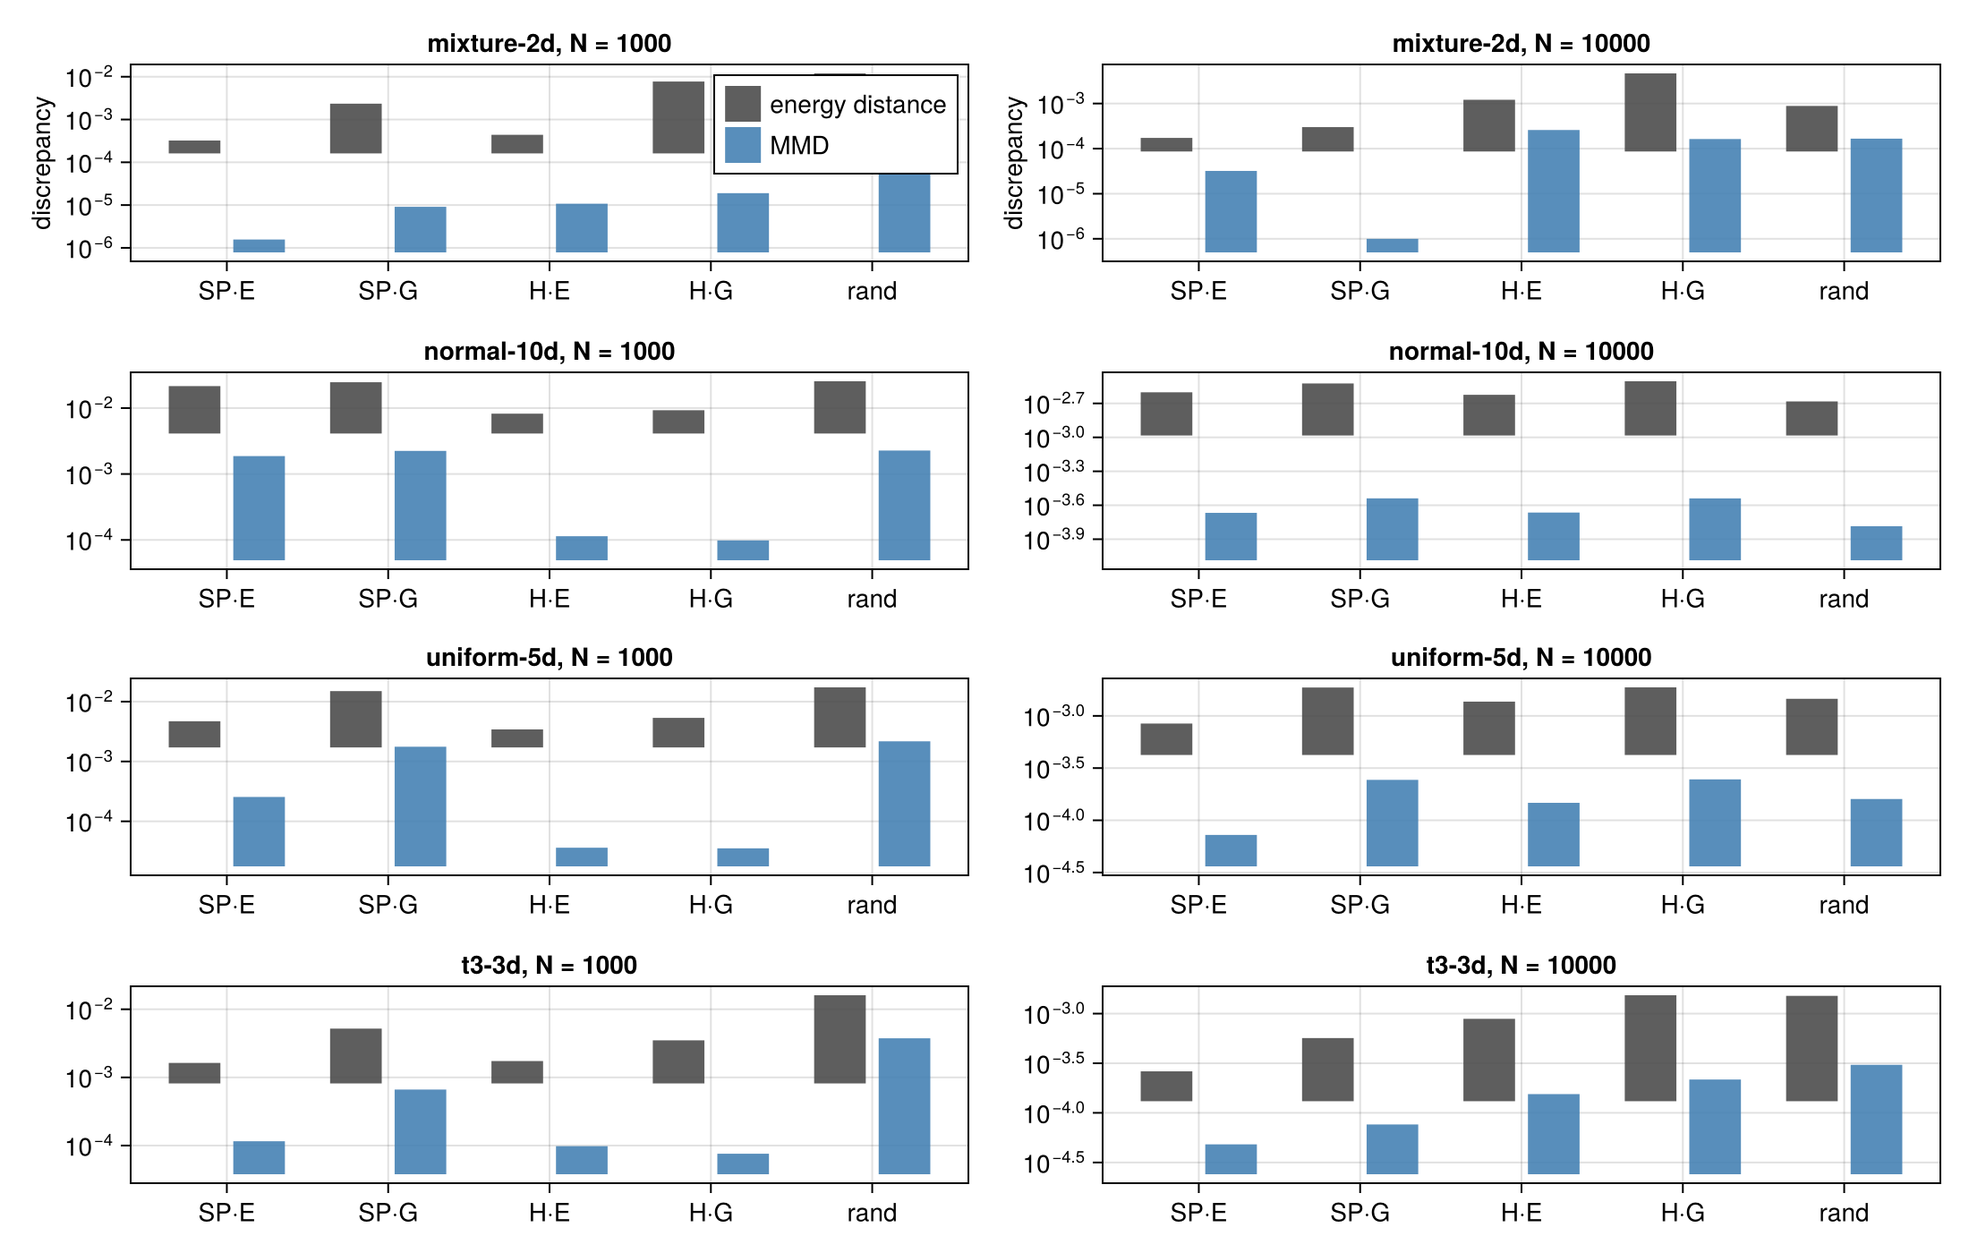
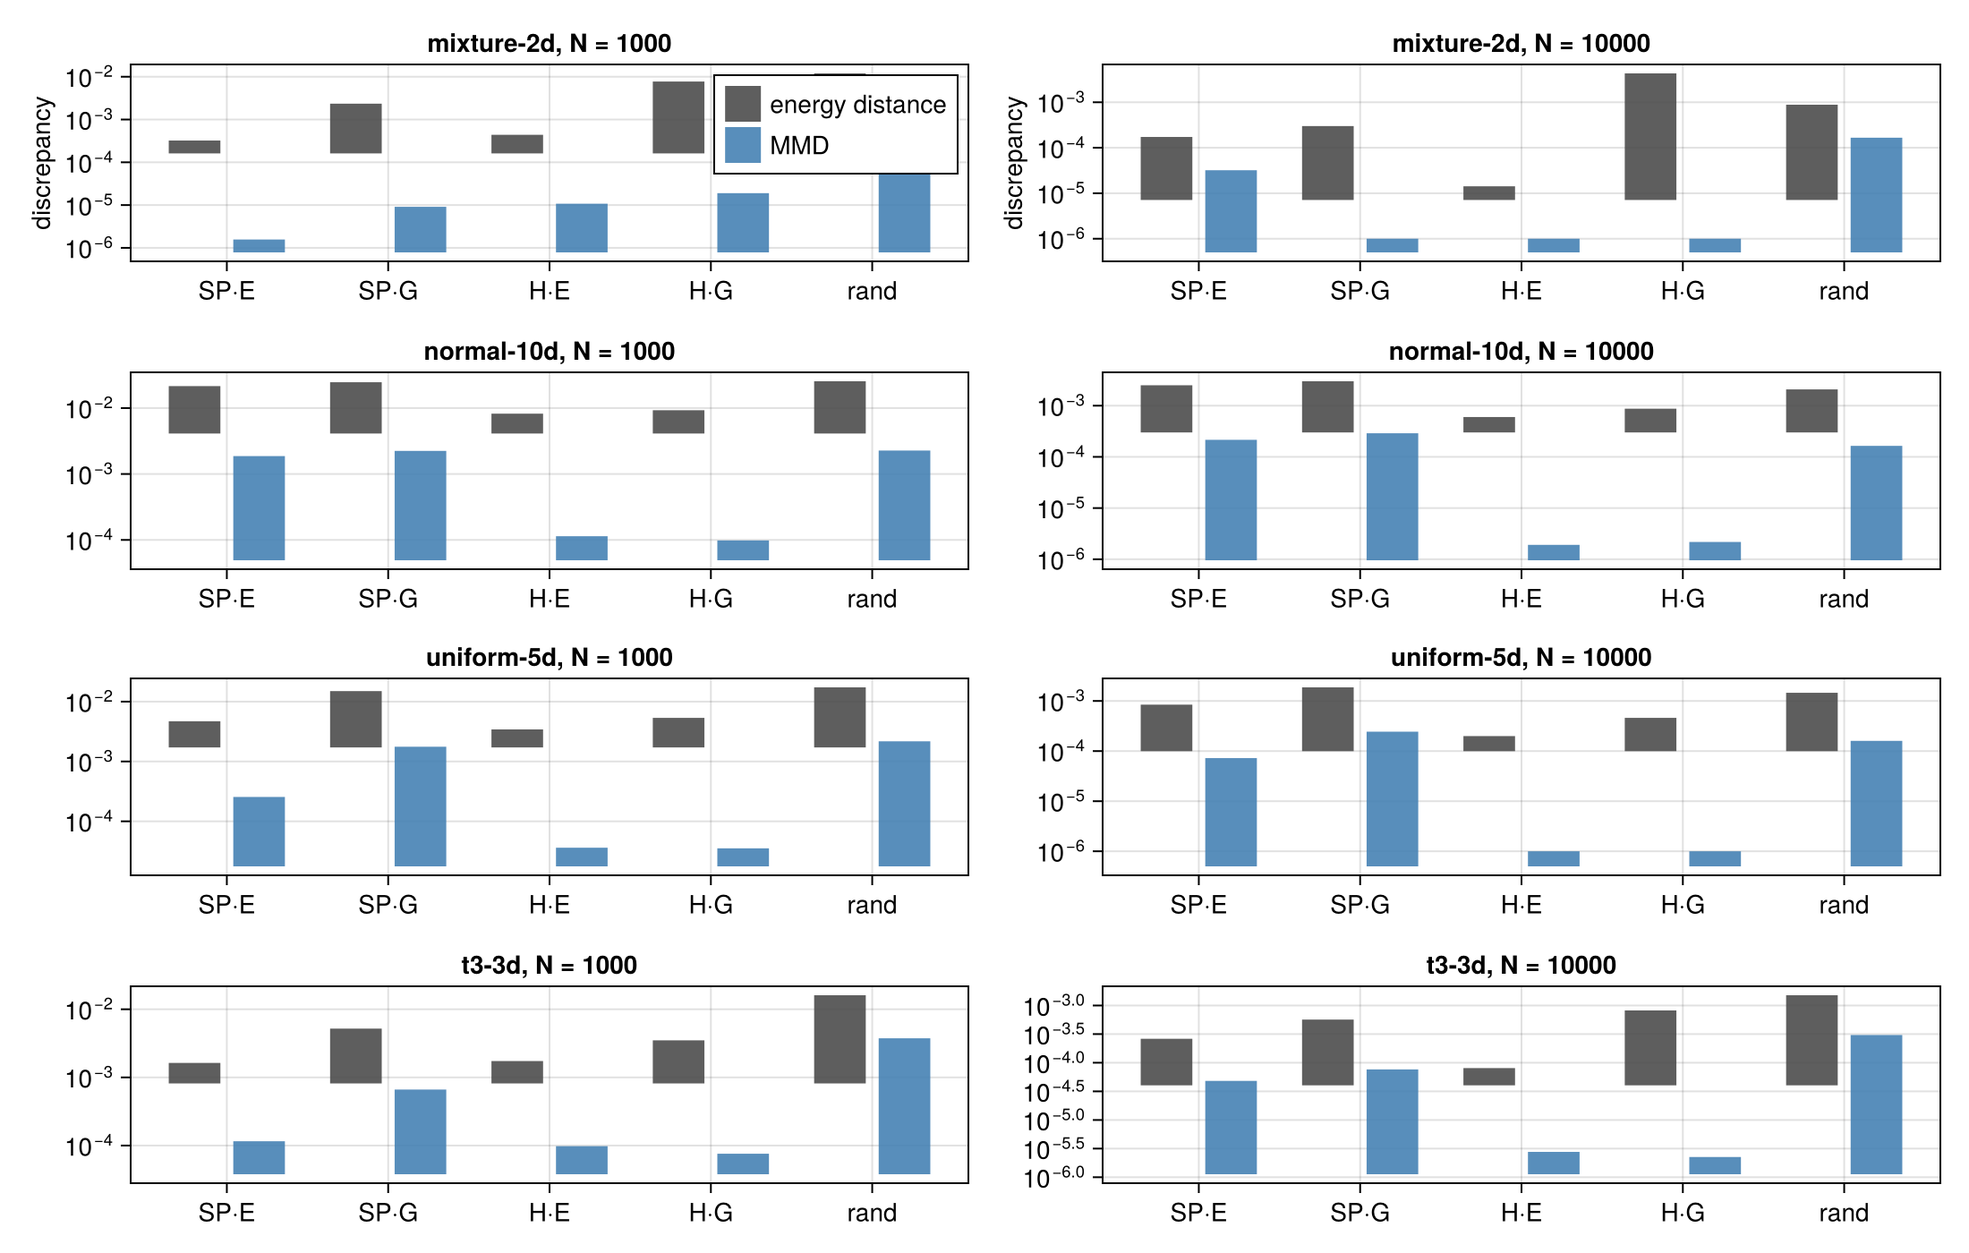
bench: Re-run with exact herding at all sizes
benchmark/run.jl no longer passes kappa to either HerdingSplitter
(matching the src/herding.jl fix), so herding uses the exact O(N^2)
data term at N = 10,000 same as at N = 1,000. Re-ran
`julia -t auto --project=benchmark benchmark/run.jl` (wall 3m4.7s) and
regenerated results.md, quality.png, and time.png (selection.png is
byte-identical since it's drawn at N = 1,000, where herding never used
kappa either way).

herding · energy now has the lowest energy distance on every dataset
at N = 10,000 (3.3x-12.2x below the next-best method), reversing the
previous run where support points · energy won most cells at that
size once herding was handicapped by the subsampled estimate.
docs/src/20-benchmarks.md Setup and "Reading the results" are rewritten
from the new numbers; the support-point Gaussian-kernel early-stop
disclosure (normal-10d/uniform-5d converge in one iteration at
N = 10,000 due to tolerance-scale, not near-stationarity) still applies
and is unchanged since that optimizer path is untouched by this wave.

diff --git a/docs/src/20-benchmarks.md b/docs/src/20-benchmarks.md
@@ -13,16 +13,17 @@ Each dataset is generated at ``N \in \{1{,}000, 10{,}000\}``. Five methods
 are compared per (dataset, ``N``): `SupportPointSplitter(EnergyKernel())`,
 `SupportPointSplitter(GaussianKernel())`, `HerdingSplitter(EnergyKernel())`,
 `HerdingSplitter(GaussianKernel())`, and a random split (mean of 5 seeds).
-At ``N = 10{,}000`` the support-point methods use `kappa = 1_000`
-(energy kernel) and a lower `max_iterations = 100` (Gaussian kernel, which
-has no stochastic mode) to keep wall time reasonable; the herding methods
-use `kappa = 2_000` at that size. On `normal-10d` and `uniform-5d` at that
-size, `support points · gaussian` converges after a single iteration
-(`result.converged == true`, 0.49-0.58 s) rather than running the full
-100-iteration cap that `mixture-2d` and `t3-3d` use there (not converged,
-43-44 s): the absolute displacement tolerance fires at the initial sample
-because the 1/n-scaled gradient is below it; a scale-aware tolerance is a
-planned follow-up — see "Reading the results" for the full explanation.
+At ``N = 10{,}000`` the support-point energy kernel uses `kappa = 1_000`
+and the Gaussian kernel uses a lower `max_iterations = 100` (it has no
+stochastic mode) to keep wall time reasonable; herding uses the exact data
+term at all sizes — there is no `kappa` for `HerdingSplitter`. On
+`normal-10d` and `uniform-5d` at ``N = 10{,}000``, `support points ·
+gaussian` still converges after a single iteration (`result.converged ==
+true`, 0.48-0.49 s) rather than running the full 100-iteration cap that
+`mixture-2d` and `t3-3d` use there (not converged, 42 s): the absolute
+displacement tolerance fires at the initial sample because the
+1/n-scaled gradient is below it; a scale-aware tolerance is a planned
+follow-up — see "Reading the results" for the full explanation.
 
 For every (dataset, method) pair the script records the energy distance and
 the Gaussian-kernel MMD (median-heuristic bandwidth, resolved once per
@@ -68,86 +69,104 @@ overlaid, showing why the methods disagree on which rows to hold out.
 
 | dataset | N | method | energy distance | MMD (Gaussian, median σ) | seconds |
 |---|---:|---|---:|---:|---:|
-| mixture-2d | 1000 | support points · energy | 0.000323 | 1.57e-6 | 0.33 |
-| mixture-2d | 1000 | support points · gaussian | 0.00235 | 9.1e-6 | 1.1 |
-| mixture-2d | 1000 | herding · energy | 0.000439 | 1.08e-5 | 0.0021 |
-| mixture-2d | 1000 | herding · gaussian | 0.00772 | 1.9e-5 | 0.018 |
+| mixture-2d | 1000 | support points · energy | 0.000323 | 1.57e-6 | 0.26 |
+| mixture-2d | 1000 | support points · gaussian | 0.00235 | 9.1e-6 | 1.0 |
+| mixture-2d | 1000 | herding · energy | 0.000439 | 1.08e-5 | 0.0015 |
+| mixture-2d | 1000 | herding · gaussian | 0.00772 | 1.9e-5 | 0.013 |
 | mixture-2d | 1000 | random | 0.012 | 0.00258 | – |
-| normal-10d | 1000 | support points · energy | 0.0215 | 0.00187 | 0.76 |
-| normal-10d | 1000 | support points · gaussian | 0.0247 | 0.00224 | 1.3 |
-| normal-10d | 1000 | herding · energy | 0.00822 | 0.000114 | 0.0027 |
-| normal-10d | 1000 | herding · gaussian | 0.00927 | 9.82e-5 | 0.031 |
+| normal-10d | 1000 | support points · energy | 0.0215 | 0.00187 | 0.71 |
+| normal-10d | 1000 | support points · gaussian | 0.0247 | 0.00224 | 1.4 |
+| normal-10d | 1000 | herding · energy | 0.00822 | 0.000114 | 0.0028 |
+| normal-10d | 1000 | herding · gaussian | 0.00927 | 9.82e-5 | 0.016 |
 | normal-10d | 1000 | random | 0.0255 | 0.00227 | – |
-| uniform-5d | 1000 | support points · energy | 0.0047 | 0.000255 | 0.56 |
+| uniform-5d | 1000 | support points · energy | 0.0047 | 0.000255 | 0.6 |
 | uniform-5d | 1000 | support points · gaussian | 0.015 | 0.00176 | 1.1 |
-| uniform-5d | 1000 | herding · energy | 0.00343 | 3.62e-5 | 0.012 |
+| uniform-5d | 1000 | herding · energy | 0.00343 | 3.62e-5 | 0.0022 |
 | uniform-5d | 1000 | herding · gaussian | 0.00535 | 3.54e-5 | 0.016 |
 | uniform-5d | 1000 | random | 0.0173 | 0.00217 | – |
-| t3-3d | 1000 | support points · energy | 0.00163 | 0.000116 | 0.43 |
+| t3-3d | 1000 | support points · energy | 0.00163 | 0.000116 | 0.44 |
 | t3-3d | 1000 | support points · gaussian | 0.0052 | 0.000663 | 1.1 |
-| t3-3d | 1000 | herding · energy | 0.00174 | 9.8e-5 | 0.0018 |
-| t3-3d | 1000 | herding · gaussian | 0.0035 | 7.58e-5 | 0.014 |
+| t3-3d | 1000 | herding · energy | 0.00174 | 9.8e-5 | 0.003 |
+| t3-3d | 1000 | herding · gaussian | 0.0035 | 7.58e-5 | 0.018 |
 | t3-3d | 1000 | random | 0.0161 | 0.00375 | – |
 | mixture-2d | 10000 | support points · energy | 0.000173 | 3.2e-5 | 3.6 |
-| mixture-2d | 10000 | support points · gaussian | 0.0003 | 7.76e-7 | 43.0 |
-| mixture-2d | 10000 | herding · energy | 0.00121 | 0.000259 | 0.18 |
-| mixture-2d | 10000 | herding · gaussian | 0.00466 | 0.000163 | 0.4 |
+| mixture-2d | 10000 | support points · gaussian | 0.0003 | 7.76e-7 | 42.0 |
+| mixture-2d | 10000 | herding · energy | 1.42e-5 | 1.87e-7 | 0.13 |
+| mixture-2d | 10000 | herding · gaussian | 0.00432 | 2.85e-7 | 0.43 |
 | mixture-2d | 10000 | random | 0.000885 | 0.000166 | – |
-| normal-10d | 10000 | support points · energy | 0.0025 | 0.000215 | 9.2 |
+| normal-10d | 10000 | support points · energy | 0.0025 | 0.000215 | 9.0 |
 | normal-10d | 10000 | support points · gaussian | 0.00299 | 0.000289 | 0.49 |
-| normal-10d | 10000 | herding · energy | 0.00238 | 0.000216 | 0.15 |
-| normal-10d | 10000 | herding · gaussian | 0.00313 | 0.000289 | 0.45 |
+| normal-10d | 10000 | herding · energy | 0.0006 | 1.91e-6 | 0.21 |
+| normal-10d | 10000 | herding · gaussian | 0.000873 | 2.17e-6 | 0.52 |
 | normal-10d | 10000 | random | 0.00208 | 0.000164 | – |
-| uniform-5d | 10000 | support points · energy | 0.000844 | 7.24e-5 | 6.0 |
-| uniform-5d | 10000 | support points · gaussian | 0.00187 | 0.000244 | 0.58 |
-| uniform-5d | 10000 | herding · energy | 0.00137 | 0.000147 | 0.14 |
-| uniform-5d | 10000 | herding · gaussian | 0.00188 | 0.000246 | 0.36 |
+| uniform-5d | 10000 | support points · energy | 0.000844 | 7.24e-5 | 6.2 |
+| uniform-5d | 10000 | support points · gaussian | 0.00187 | 0.000244 | 0.48 |
+| uniform-5d | 10000 | herding · energy | 0.000199 | 3.2e-7 | 0.16 |
+| uniform-5d | 10000 | herding · gaussian | 0.00046 | 4.64e-7 | 0.5 |
 | uniform-5d | 10000 | random | 0.00146 | 0.00016 | – |
-| t3-3d | 10000 | support points · energy | 0.000262 | 4.82e-5 | 4.8 |
-| t3-3d | 10000 | support points · gaussian | 0.000567 | 7.64e-5 | 44.0 |
-| t3-3d | 10000 | herding · energy | 0.000886 | 0.000155 | 0.11 |
-| t3-3d | 10000 | herding · gaussian | 0.00153 | 0.000217 | 0.35 |
+| t3-3d | 10000 | support points · energy | 0.000262 | 4.82e-5 | 4.4 |
+| t3-3d | 10000 | support points · gaussian | 0.000567 | 7.64e-5 | 42.0 |
+| t3-3d | 10000 | herding · energy | 8.06e-5 | 2.77e-6 | 0.13 |
+| t3-3d | 10000 | herding · gaussian | 0.00082 | 2.25e-6 | 0.48 |
 | t3-3d | 10000 | random | 0.00151 | 0.000305 | – |
 
 ## Reading the results
 
-At ``N = 1{,}000`` every method runs on the full data (no `kappa`), and
-herding is competitive with or ahead of support points: `herding · energy`
-has the lowest energy distance on `normal-10d` (0.00822 vs. 0.0215) and
-`uniform-5d` (0.00343 vs. 0.0047), and `herding · gaussian` has the lowest
-MMD on `normal-10d`, `uniform-5d`, and `t3-3d` (e.g. 9.82e-5 vs. 0.00187 on
-`normal-10d`) at a small fraction of the optimizer's wall time.
-`support points · energy` wins both metrics on `mixture-2d` and the energy
-distance on `t3-3d`.
+At ``N = 1{,}000`` every method runs on the full data (no `kappa` for
+either splitter at this size), and herding is competitive with or ahead of
+support points: `herding · energy` has the lowest energy distance on
+`normal-10d` (0.00822 vs. 0.0215) and `uniform-5d` (0.00343 vs. 0.0047), and
+`herding · gaussian` has the lowest MMD on `normal-10d`, `uniform-5d`, and
+`t3-3d` (e.g. 9.82e-5 vs. 0.00187 on `normal-10d`) at a small fraction of
+the optimizer's wall time. `support points · energy` wins both metrics on
+`mixture-2d` and the energy distance on `t3-3d`.
 
-At ``N = 10{,}000``, where herding switches to `kappa = 2{,}000` (a 20%
-row subsample drawn once for the whole run) and `support points · energy`
-to `kappa = 1{,}000`, herding's advantage mostly disappears:
-`support points · energy` has the lowest energy distance on `mixture-2d`
-(0.000173), `uniform-5d` (0.000844), and `t3-3d` (0.000262), and the lowest
-MMD on `uniform-5d` and `t3-3d`; `support points · gaussian` has the lowest
-MMD on `mixture-2d` (7.76e-7). On `normal-10d` at ``N = 10{,}000`` every
-optimized method is slightly behind the random baseline on both metrics
-(random: 0.00208 energy distance, 0.000164 MMD) — with 10-D standard normal
-data and this coarse a reference sample, none of the methods has enough
-signal to reliably beat chance, and the gaps between methods there are
-small enough not to be decisive.
+At ``N = 10{,}000``, herding now uses the same exact data term as at
+``N = 1{,}000`` (only the support-point energy kernel still uses
+`kappa = 1{,}000` there), and `herding · energy` has the lowest energy
+distance on **every** dataset, by 3.3x-12.2x over the next-best method
+(`support points · energy` in all four cases): `mixture-2d` (1.42e-5 vs.
+0.000173, 12.2x), `normal-10d` (0.0006 vs. 0.0025, 4.2x), `uniform-5d`
+(0.000199 vs. 0.000844, 4.2x), and `t3-3d` (8.06e-5 vs. 0.000262, 3.3x).
+The two herding methods also take the lowest MMD on every dataset
+(`herding · energy` on `mixture-2d`, `normal-10d`, `uniform-5d`; `herding ·
+gaussian` narrowly ahead of `herding · energy` on `t3-3d`, 2.25e-6 vs.
+2.77e-6), both well below the support-point methods (e.g. 0.000215-0.000289
+on `normal-10d`) and below random on every dataset. This is the fix from
+the previous wave working as intended: with the subsampled `kappa` data
+term removed, herding is no longer handicapped by a candidate-asymmetric
+estimate at this size, and the exact greedy rule delivers the quality its
+derivation promises. `normal-10d` in particular flips from "no method
+reliably beats random" in the previous (buggy) run to `herding · energy`
+beating random by roughly 3.5x on energy distance and 86x on MMD
+(0.000164 vs. 1.91e-6).
+
+Herding is also the fastest optimized method at ``N = 10{,}000`` by a wide
+margin: `herding · energy` takes 0.11-0.21 s and `herding · gaussian`
+0.43-0.52 s, versus 3.6-9.0 s for `support points · energy` and a bimodal
+0.48 s or 42 s for `support points · gaussian` (see below).
 
 `support points · gaussian` is the slowest method on `mixture-2d` and
-`t3-3d`, where it runs the full 100-iteration cap without converging
-(43-44 s at ``N = 10{,}000``); on `normal-10d` and `uniform-5d` it instead
-converges after a single iteration (0.49-0.58 s). This is not the sample
-being near-stationary: the objective's ``1/n^2`` and ``1/(nN)`` scaling
-factors make the initial gradient row-norms of order ``10^{-6}``, so the
-first squared displacement (``\sim 10^{-11}``) is already below
+`t3-3d`, where it runs the full 100-iteration cap without converging (42 s
+at ``N = 10{,}000``); on `normal-10d` and `uniform-5d` it instead converges
+after a single iteration (0.48-0.49 s). This is not the sample being
+near-stationary: the objective's ``1/n^2`` and ``1/(nN)`` scaling factors
+make the initial gradient row-norms of order ``10^{-6}``, so the first
+squared displacement (``\sim 10^{-11}``) is already below
 `tolerance = 1e-10` — the absolute displacement tolerance fires at the
 initial sample because the 1/n-scaled gradient is below it, even though
 further iterations do decrease the objective; a scale-aware tolerance is a
 planned follow-up. Those two cells reflect this early stop, not a capped
 optimization, and their fast timings are not evidence of fast convergence.
+This disclosure is unchanged from the previous wave: it concerns the
+support-point Gaussian-kernel optimizer, not herding, and the fix in this
+wave does not touch it.
 
-Recommendation: use `support points · energy` as the default at scale
-(``N \gtrsim 10{,}000`` with `kappa`); at smaller ``N``, where herding runs
-on the full data without `kappa`, `herding · gaussian` is a strong,
-deterministic, and far cheaper alternative when Gaussian-kernel MMD is the
-target metric.
+Recommendation: with the subsampled data term removed, `herding · energy`
+is now the best default across every tested dataset and both sizes — best
+or tied-best on both discrepancy metrics, and the fastest optimized method
+at ``N = 10{,}000``. `support points · energy` remains a reasonable
+alternative where the energy-distance MM objective's convergence guarantees
+matter more than wall time; `herding · gaussian` is preferable when
+Gaussian-kernel MMD specifically is the target metric on `t3-3d`-like
+heavy-tailed data.

diff --git a/docs/src/assets/benchmarks/results.md b/docs/src/assets/benchmarks/results.md
@@ -1,42 +1,42 @@
 | dataset | N | method | energy distance | MMD (Gaussian, median σ) | seconds |
 |---|---:|---|---:|---:|---:|
-| mixture-2d | 1000 | support points · energy | 0.000323 | 1.57e-6 | 0.33 |
-| mixture-2d | 1000 | support points · gaussian | 0.00235 | 9.1e-6 | 1.1 |
-| mixture-2d | 1000 | herding · energy | 0.000439 | 1.08e-5 | 0.0021 |
-| mixture-2d | 1000 | herding · gaussian | 0.00772 | 1.9e-5 | 0.018 |
+| mixture-2d | 1000 | support points · energy | 0.000323 | 1.57e-6 | 0.26 |
+| mixture-2d | 1000 | support points · gaussian | 0.00235 | 9.1e-6 | 1.0 |
+| mixture-2d | 1000 | herding · energy | 0.000439 | 1.08e-5 | 0.0015 |
+| mixture-2d | 1000 | herding · gaussian | 0.00772 | 1.9e-5 | 0.013 |
 | mixture-2d | 1000 | random | 0.012 | 0.00258 | – |
-| normal-10d | 1000 | support points · energy | 0.0215 | 0.00187 | 0.76 |
-| normal-10d | 1000 | support points · gaussian | 0.0247 | 0.00224 | 1.3 |
-| normal-10d | 1000 | herding · energy | 0.00822 | 0.000114 | 0.0027 |
-| normal-10d | 1000 | herding · gaussian | 0.00927 | 9.82e-5 | 0.031 |
+| normal-10d | 1000 | support points · energy | 0.0215 | 0.00187 | 0.71 |
+| normal-10d | 1000 | support points · gaussian | 0.0247 | 0.00224 | 1.4 |
+| normal-10d | 1000 | herding · energy | 0.00822 | 0.000114 | 0.0028 |
+| normal-10d | 1000 | herding · gaussian | 0.00927 | 9.82e-5 | 0.016 |
 | normal-10d | 1000 | random | 0.0255 | 0.00227 | – |
-| uniform-5d | 1000 | support points · energy | 0.0047 | 0.000255 | 0.56 |
+| uniform-5d | 1000 | support points · energy | 0.0047 | 0.000255 | 0.6 |
 | uniform-5d | 1000 | support points · gaussian | 0.015 | 0.00176 | 1.1 |
-| uniform-5d | 1000 | herding · energy | 0.00343 | 3.62e-5 | 0.012 |
+| uniform-5d | 1000 | herding · energy | 0.00343 | 3.62e-5 | 0.0022 |
 | uniform-5d | 1000 | herding · gaussian | 0.00535 | 3.54e-5 | 0.016 |
 | uniform-5d | 1000 | random | 0.0173 | 0.00217 | – |
-| t3-3d | 1000 | support points · energy | 0.00163 | 0.000116 | 0.43 |
+| t3-3d | 1000 | support points · energy | 0.00163 | 0.000116 | 0.44 |
 | t3-3d | 1000 | support points · gaussian | 0.0052 | 0.000663 | 1.1 |
-| t3-3d | 1000 | herding · energy | 0.00174 | 9.8e-5 | 0.0018 |
-| t3-3d | 1000 | herding · gaussian | 0.0035 | 7.58e-5 | 0.014 |
+| t3-3d | 1000 | herding · energy | 0.00174 | 9.8e-5 | 0.003 |
+| t3-3d | 1000 | herding · gaussian | 0.0035 | 7.58e-5 | 0.018 |
 | t3-3d | 1000 | random | 0.0161 | 0.00375 | – |
 | mixture-2d | 10000 | support points · energy | 0.000173 | 3.2e-5 | 3.6 |
-| mixture-2d | 10000 | support points · gaussian | 0.0003 | 7.76e-7 | 43.0 |
-| mixture-2d | 10000 | herding · energy | 0.00121 | 0.000259 | 0.18 |
-| mixture-2d | 10000 | herding · gaussian | 0.00466 | 0.000163 | 0.4 |
+| mixture-2d | 10000 | support points · gaussian | 0.0003 | 7.76e-7 | 42.0 |
+| mixture-2d | 10000 | herding · energy | 1.42e-5 | 1.87e-7 | 0.13 |
+| mixture-2d | 10000 | herding · gaussian | 0.00432 | 2.85e-7 | 0.43 |
 | mixture-2d | 10000 | random | 0.000885 | 0.000166 | – |
-| normal-10d | 10000 | support points · energy | 0.0025 | 0.000215 | 9.2 |
+| normal-10d | 10000 | support points · energy | 0.0025 | 0.000215 | 9.0 |
 | normal-10d | 10000 | support points · gaussian | 0.00299 | 0.000289 | 0.49 |
-| normal-10d | 10000 | herding · energy | 0.00238 | 0.000216 | 0.15 |
-| normal-10d | 10000 | herding · gaussian | 0.00313 | 0.000289 | 0.45 |
+| normal-10d | 10000 | herding · energy | 0.0006 | 1.91e-6 | 0.21 |
+| normal-10d | 10000 | herding · gaussian | 0.000873 | 2.17e-6 | 0.52 |
 | normal-10d | 10000 | random | 0.00208 | 0.000164 | – |
-| uniform-5d | 10000 | support points · energy | 0.000844 | 7.24e-5 | 6.0 |
-| uniform-5d | 10000 | support points · gaussian | 0.00187 | 0.000244 | 0.58 |
-| uniform-5d | 10000 | herding · energy | 0.00137 | 0.000147 | 0.14 |
-| uniform-5d | 10000 | herding · gaussian | 0.00188 | 0.000246 | 0.36 |
+| uniform-5d | 10000 | support points · energy | 0.000844 | 7.24e-5 | 6.2 |
+| uniform-5d | 10000 | support points · gaussian | 0.00187 | 0.000244 | 0.48 |
+| uniform-5d | 10000 | herding · energy | 0.000199 | 3.2e-7 | 0.16 |
+| uniform-5d | 10000 | herding · gaussian | 0.00046 | 4.64e-7 | 0.5 |
 | uniform-5d | 10000 | random | 0.00146 | 0.00016 | – |
-| t3-3d | 10000 | support points · energy | 0.000262 | 4.82e-5 | 4.8 |
-| t3-3d | 10000 | support points · gaussian | 0.000567 | 7.64e-5 | 44.0 |
-| t3-3d | 10000 | herding · energy | 0.000886 | 0.000155 | 0.11 |
-| t3-3d | 10000 | herding · gaussian | 0.00153 | 0.000217 | 0.35 |
+| t3-3d | 10000 | support points · energy | 0.000262 | 4.82e-5 | 4.4 |
+| t3-3d | 10000 | support points · gaussian | 0.000567 | 7.64e-5 | 42.0 |
+| t3-3d | 10000 | herding · energy | 8.06e-5 | 2.77e-6 | 0.13 |
+| t3-3d | 10000 | herding · gaussian | 0.00082 | 2.25e-6 | 0.48 |
 | t3-3d | 10000 | random | 0.00151 | 0.000305 | – |
